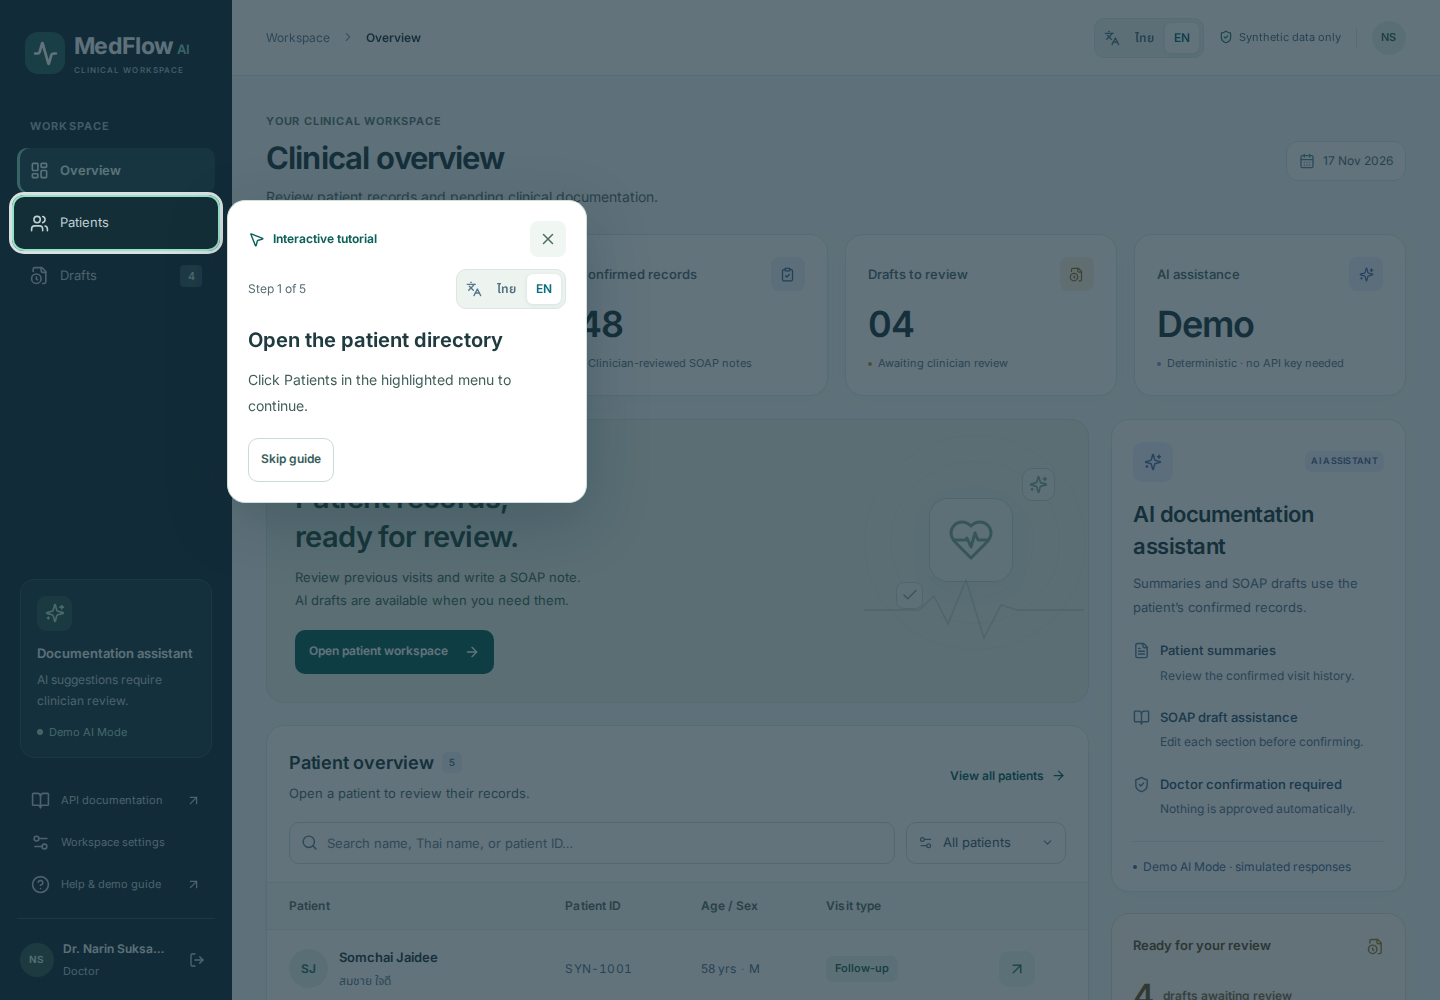
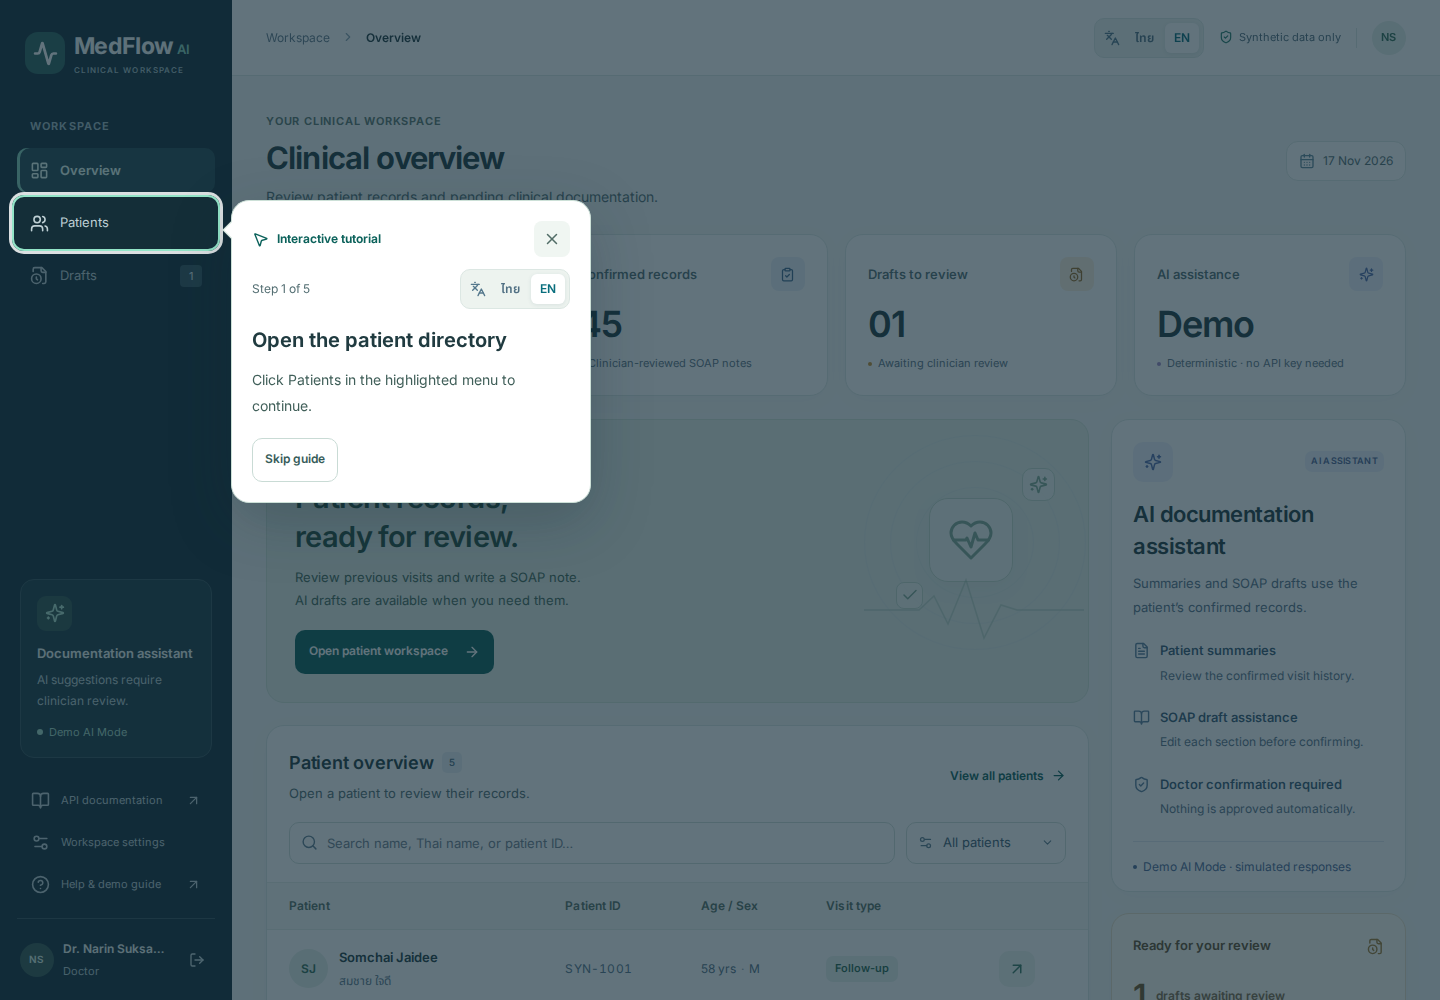
fix: anchor tutorial popups beside highlighted controls

Changed region(s): [[0.1562, 0.217, 0.4375, 0.496], [0.7812, 0.992, 0.9062, 1.0], [0.625, 0.31, 0.6562, 0.341]]

diff --git a/frontend/src/hooks/use-tour-target.ts b/frontend/src/hooks/use-tour-target.ts
@@ -1,8 +1,9 @@
 import { useLayoutEffect, useState, type RefObject } from 'react';
+import { placeTour } from '../lib/tour-placement';
 
 type Box = { left: number; top: number; right: number; bottom: number; width: number; height: number };
 export function useTourTarget(active: boolean, selector: string, panel: RefObject<HTMLDivElement | null>) {
-  const [layout, setLayout] = useState<{ box: Box | null; x: number; y: number; width: number; limit: number; keyboard: boolean; targetName: string | null }>({ box: null, x: 12, y: 100, width: 360, limit: 600, keyboard: false, targetName: null });
+  const [layout, setLayout] = useState<{ box: Box | null; x: number; y: number; width: number; limit: number; keyboard: boolean; targetName: string | null; side: 'top' | 'bottom' | 'left' | 'right' }>({ box: null, x: 12, y: 100, width: 360, limit: 600, keyboard: false, targetName: null, side: 'bottom' });
   useLayoutEffect(() => {
     if (!active) return;
     let frame = 0;
@@ -17,9 +18,11 @@ export function useTourTarget(active: boolean, selector: string, panel: RefObjec
       const visibleHeight = visual?.height || window.innerHeight;
       const vh = topEdge + visibleHeight;
       const keyboard = visibleHeight < window.innerHeight * .8;
-      const limit = Math.min(visibleHeight - 24, keyboard ? Math.max(150, visibleHeight * .58) : visibleHeight - 24);
+      const baseLimit = Math.min(visibleHeight - 24, keyboard ? Math.max(150, visibleHeight * .58) : visibleHeight - 24);
       const width = Math.min(360, (visual?.width || window.innerWidth) - 24);
-      const height = Math.min(panel.current?.offsetHeight || 280, limit);
+      const body = panel.current?.querySelector<HTMLElement>('.tour-body');
+      const naturalHeight = (panel.current?.offsetHeight || 280) + Math.max(0, (body?.scrollHeight || 0) - (body?.clientHeight || 0));
+      const height = Math.min(naturalHeight, baseLimit);
       if (node !== target) {
         if (target) { target.removeAttribute('aria-describedby'); resize.unobserve(target); }
         target = node;
@@ -34,21 +37,26 @@ export function useTourTarget(active: boolean, selector: string, panel: RefObjec
       }
       let box: Box | null = null;
       let x = vw - width - 12, y = Math.max(topEdge + 12, vh - height - 12);
+      let limit = baseLimit;
+      let side: 'top' | 'bottom' | 'left' | 'right' = 'bottom';
       if (node) {
         let r = node.getBoundingClientRect();
-        if (vw > 800 && vw - r.right >= width + 24) {
-          x = r.right + 12; y = Math.max(topEdge + 12, Math.min(r.top, vh - height - 12));
-        } else if (vw > 800 && r.left >= width + 24) {
-          x = r.left - width - 12; y = Math.max(topEdge + 12, Math.min(r.top, vh - height - 12));
-        } else if (r.bottom + 16 > y && !node.closest('.sidebar,.topbar')) {
-          window.scrollBy({ top: r.bottom + 16 - y, behavior: 'instant' });
+        const viewport = { left: visual?.offsetLeft || 0, top: topEdge, right: vw, bottom: vh };
+        let placement = placeTour(r, viewport, width, height);
+        if (placement.limit < Math.min(200, height) && !node.closest('.sidebar,.topbar')) {
+          const headerBottom = document.querySelector('.topbar')?.getBoundingClientRect().bottom || topEdge;
+          const desiredTop = Math.max(topEdge + 12, headerBottom + 12);
+          window.scrollBy({ top: r.top - desiredTop, behavior: 'instant' });
           r = node.getBoundingClientRect();
+          placement = placeTour(r, viewport, width, height);
         }
+        ({ x, y, side } = placement);
+        limit = Math.min(baseLimit, Math.max(0, placement.limit));
         const left = Math.max(0, r.left - 5), top = Math.max(0, r.top - 5);
         const right = Math.min(vw, r.right + 5), bottom = Math.min(vh, r.bottom + 5);
         box = { left, top, right, bottom, width: Math.max(0, right - left), height: Math.max(0, bottom - top) };
       }
-      const next = { box, x, y, width, limit, keyboard, targetName: node?.dataset.tour || null };
+      const next = { box, x, y, width, limit, keyboard, side, targetName: node?.dataset.tour || null };
       setLayout(old => JSON.stringify(old) === JSON.stringify(next) ? old : next);
     }
     function schedule() { cancelAnimationFrame(frame); frame = requestAnimationFrame(measure); }

diff --git a/frontend/src/components/onboarding-guide.tsx b/frontend/src/components/onboarding-guide.tsx
@@ -72,7 +72,7 @@ export function OnboardingGuide({ user, replay, restoreFocus, patientOpen, direc
   const selector = step === 0 ? compact && !mobile ? '[data-tour="menu"]' : '[data-tour="patients"]'
     : step === 1 ? '[data-tour="search"]' : step === 2 ? '[data-tour="open-patient"]'
     : step === 3 || user.role === 'Administrator' ? '[data-tour="history"]' : '[data-tour="soap-field"] || [data-tour="documentation-tab"]';
-  const { box, x, y, width, limit, keyboard, targetName } = useTourTarget(open, selector, panel);
+  const { box, x, y, width, limit, keyboard, targetName, side } = useTourTarget(open, selector, panel);
   if (!open) return null;
   const titles = ['Open the patient directory', 'Find a patient', 'Open the patient record', 'Review patient history', 'Know your role'];
   const descriptions = [
@@ -94,6 +94,9 @@ export function OnboardingGuide({ user, replay, restoreFocus, patientOpen, direc
     </> : <div className="tour-shade" style={{ inset: 0 }} />}
     <div ref={panel} role="dialog" aria-label={t('Interactive tutorial')} aria-describedby="tutorial-description"
       className="tour-panel" data-keyboard={keyboard || undefined} style={{ left: x, top: y, width, maxHeight: limit }} aria-busy={busy}>
+      {box && <span aria-hidden="true" className={`tour-pointer tour-pointer-${side}`} style={side === 'left' || side === 'right'
+        ? { top: Math.max(22, Math.min((panel.current?.offsetHeight || 280) - 22, box.top + box.height / 2 - y)) }
+        : { left: Math.max(22, Math.min(width - 22, box.left + box.width / 2 - x)) }} />}
       <div className="tour-header"><span><MousePointer2 size={17} aria-hidden="true" />{t('Interactive tutorial')}</span>
         <button className="tour-close" aria-label={t('Close')} onClick={() => void dismiss()} disabled={busy}><X size={18} /></button></div>
       <div className="tour-meta"><p role="status">{t('Step {step} of {total}', { step: step + 1, total: 5 })}</p><LanguageSwitcher /></div>

diff --git a/frontend/tests/onboarding.spec.ts b/frontend/tests/onboarding.spec.ts
@@ -9,6 +9,35 @@ test.beforeEach(async ({ page }) => {
   });
 });
 
+for (const width of [375, 1024]) test(`${width}px: teaching popup stays beside its search target`, async ({ page }) => {
+  await page.setViewportSize({ width, height: 1000 });
+  await page.goto('/');
+  await page.getByRole('button', { name: 'Sign in to workspace' }).click();
+  if (width < 801) await page.getByRole('button', { name: 'Open navigation' }).click();
+  await page.getByRole('button', { name: 'Patients', exact: true }).click();
+  if (width < 801) await expect(page.locator('#workspace-navigation')).not.toBeInViewport();
+  const guide = page.getByRole('dialog', { name: 'Interactive tutorial' });
+  const input = page.getByPlaceholder('Search name, Thai name, or patient ID…');
+  await input.fill('Somchai');
+  async function gap() {
+    const tip = (await guide.boundingBox())!;
+    const target = (await input.boundingBox())!;
+    const alignedX = tip.x < target.x + target.width && target.x < tip.x + tip.width;
+    const alignedY = tip.y < target.y + target.height && target.y < tip.y + tip.height;
+    const gaps = [
+      ...(alignedX ? [tip.y - target.y - target.height, target.y - tip.y - tip.height] : []),
+      ...(alignedY ? [tip.x - target.x - target.width, target.x - tip.x - tip.width] : []),
+    ].filter(value => value >= 0);
+    return gaps.length ? Math.min(...gaps) : Infinity;
+  }
+  await expect.poll(gap).toBeLessThanOrEqual(24);
+  await expect(guide).toBeInViewport({ ratio: 1 });
+  await page.setViewportSize({ width, height: 800 });
+  await expect.poll(gap).toBeLessThanOrEqual(24);
+  await expect(guide).toBeInViewport({ ratio: 1 });
+  await page.screenshot({ path: `screenshots/tutorial-position-${width}.png` });
+});
+
 test('teaches real navigation and search then remembers completion', async ({ page, browser }) => {
   await page.setViewportSize({ width: 1440, height: 1000 });
   await page.goto('/');

diff --git a/frontend/src/lib/tour-placement.ts b/frontend/src/lib/tour-placement.ts
@@ -1,0 +1,28 @@
+export type TourRect = { left: number; top: number; right: number; bottom: number; width: number; height: number };
+type Viewport = { left: number; top: number; right: number; bottom: number };
+const margin = 12, gap = 16;
+const clamp = (value: number, low: number, high: number) => Math.max(low, Math.min(value, Math.max(low, high)));
+
+export function placeTour(target: TourRect, viewport: Viewport, width: number, desiredHeight: number) {
+  const lowX = viewport.left + margin, highX = viewport.right - margin - width;
+  const lowY = viewport.top + margin, highY = viewport.bottom - margin;
+  const below = Math.max(0, highY - target.bottom - gap);
+  const above = Math.max(0, target.top - gap - lowY);
+  const alignX = clamp(target.left, lowX, highX);
+  if (viewport.right - margin - target.right >= width + gap) {
+    return { x: target.right + gap, y: clamp(target.top, lowY, highY - desiredHeight), limit: highY - lowY, side: 'right' as const };
+  }
+  if (below >= desiredHeight) {
+    return { x: alignX, y: target.bottom + gap, limit: below, side: 'bottom' as const };
+  }
+  if (above >= desiredHeight) {
+    return { x: alignX, y: target.top - gap - desiredHeight, limit: above, side: 'top' as const };
+  }
+  if (target.left - gap - width >= lowX) {
+    return { x: target.left - gap - width, y: clamp(target.top, lowY, highY - desiredHeight), limit: highY - lowY, side: 'left' as const };
+  }
+  // In a short viewport keep the actions usable and scroll only the panel body.
+  return below >= above
+    ? { x: alignX, y: target.bottom + gap, limit: below, side: 'bottom' as const }
+    : { x: alignX, y: lowY, limit: above, side: 'top' as const };
+}

diff --git a/frontend/src/onboarding.css b/frontend/src/onboarding.css
@@ -3,6 +3,11 @@
 .tour-spotlight { position: fixed; border: 2px solid #93e4c7; border-radius: 12px; box-shadow: 0 0 0 3px #ffffffd9; pointer-events: none; }
 .tour-panel { position: fixed; z-index: 82; display: flex; flex-direction: column; width: min(360px, calc(100vw - 24px)); max-height: calc(100dvh - 24px); background: white; color: var(--ink); border: 1px solid #cce0d7; border-radius: 18px; padding: 20px; box-shadow: 0 18px 60px #102a3840; pointer-events: auto; }
 .tour-body { min-height: 0; overflow-y: auto; }
+.tour-pointer { position: absolute; width: 12px; height: 12px; background: white; border: 1px solid #cce0d7; transform: rotate(45deg); pointer-events: none; }
+.tour-pointer-right { left: -7px; border-top: 0; border-right: 0; }
+.tour-pointer-left { right: -7px; border-bottom: 0; border-left: 0; }
+.tour-pointer-bottom { top: -7px; border-bottom: 0; border-right: 0; }
+.tour-pointer-top { bottom: -7px; border-top: 0; border-left: 0; }
 .tour-header, .tour-meta, .tour-actions { flex-shrink: 0; }
 .tour-panel[data-keyboard] .tour-meta { display: none; }
 .tour-panel[data-keyboard] .tour-body { margin-top: 8px; }

diff --git a/docs/verification.md b/docs/verification.md
@@ -114,3 +114,9 @@ The introduction was replaced with spotlights on real controls and interaction-g
 Desktop/phone screenshots were inspected. The viewport test simulates keyboard-induced viewport reduction; physical mobile keyboards and full screen-reader behavior remain unverified. The backend is unchanged and retains its previously verified 31 cases. No AI generation, clinical save or clinical confirmation is performed by the tutorial. The working demo's 46 notes were preserved.
 
 Eight focused tutorial cases passed again after strengthening empty-result recovery and keyboard-focus assertions. The updated frontend was built and started locally; all three application services were healthy and the working data remained 15 patients/46 notes. Existing seen preferences were preserved, so an account that dismissed the earlier introduction can launch this tutorial from Help. The disposable test project and volumes were removed.
+
+## Tutorial popup position fix
+
+Two regression cases reproduced a popup detached from its search target at 375px and 1024px with a tall viewport. The old fallback pinned it to the viewport bottom. The new placement helper chooses a region adjacent to the control, keeps viewport margins, constrains body height when necessary, and supplies a pointing arrow. Both cases check target separation, proximity, full popup visibility and recomputation after viewport height changes.
+
+The complete focused tutorial suite passed 10/10 in the disposable `medflow-position` project. It includes the existing real-click flow, role/draft replay, history-tab recovery, simulated keyboard viewport, retry and session expiry cases. Phone and tablet screenshots were inspected. Backend code was unchanged and its suite was not rerun for this frontend fix.

diff --git a/docs/first-login-guide.md b/docs/first-login-guide.md
@@ -12,4 +12,6 @@ Transient save failures leave the guide open with an error and retry controls. A
 
 `use-tour-target.ts` positions the spotlight and teaching panel around visible targets, follows scroll/resize/drawer transitions, and uses visual viewport size/offset events for the phone keyboard. The panel body scrolls while actions remain available. The explanatory Subjective step does not focus the textarea and summon a keyboard. Tab cycles between the highlighted control and tutorial buttons; Escape skips. Missing targets retain Skip and explanatory fallback text. No dependency or external service was added.
 
+Popup placement checks the available right, below, above and left regions around the target. It stays next to the control with a pointing arrow and viewport margins instead of defaulting to the bottom of the screen. If space is limited, only the panel body scrolls; target scrolling is reserved for insufficient space. Placement uses the untruncated body height so successive measurements do not jump between full and constrained sizes.
+
 Dedicated browser tests cover real navigation/search/open interactions, empty-result recovery, persistence across browser contexts, role copy, unsaved-draft replay, history-tab recovery, phone/language behavior, focus and error handling. Keyboard geometry is tested with a simulated reduced visual viewport, not a physical iOS/Android keyboard. Existing clinical suites model returning users by overriding only the guide preference. All browser writes run in a disposable Docker project.
